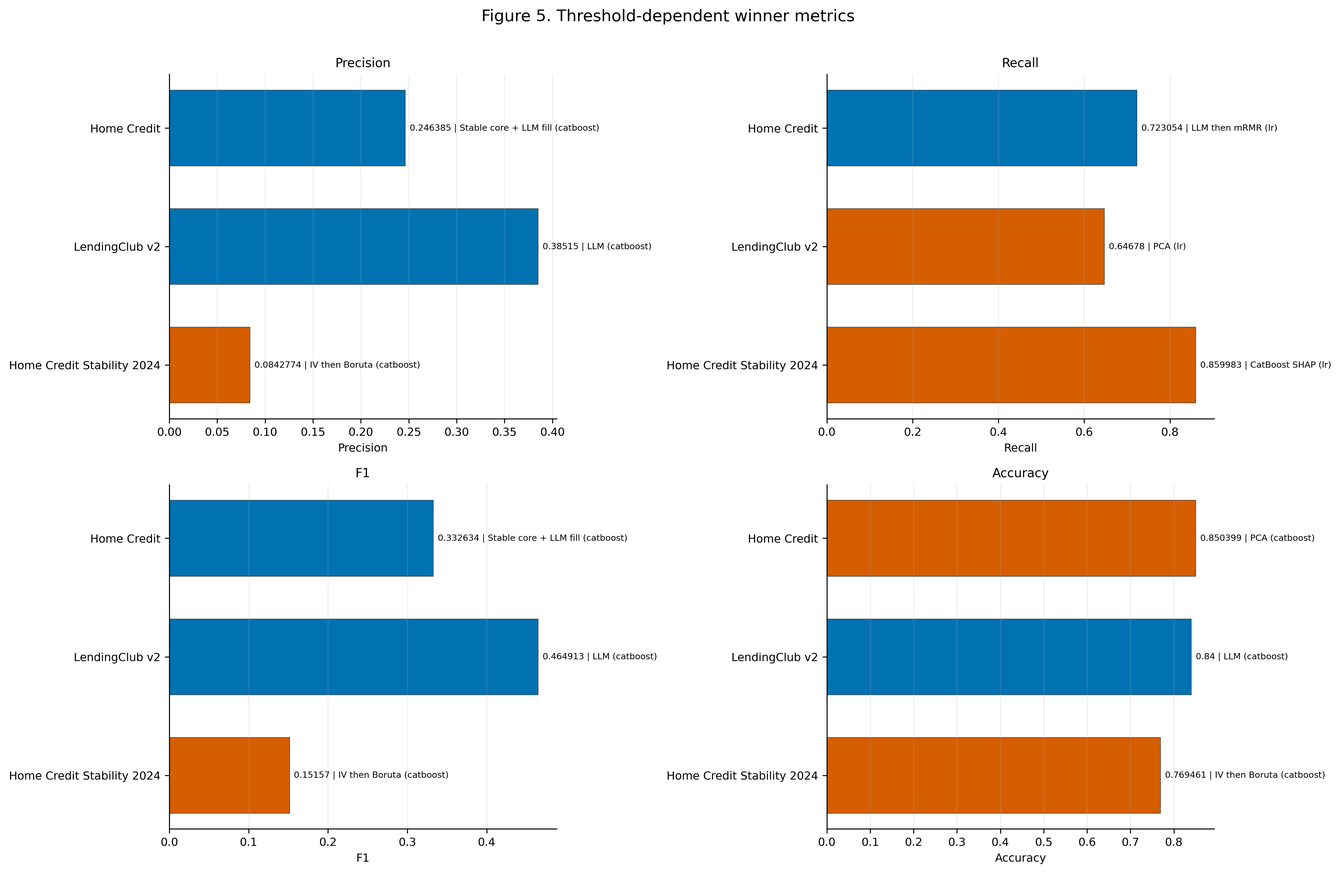
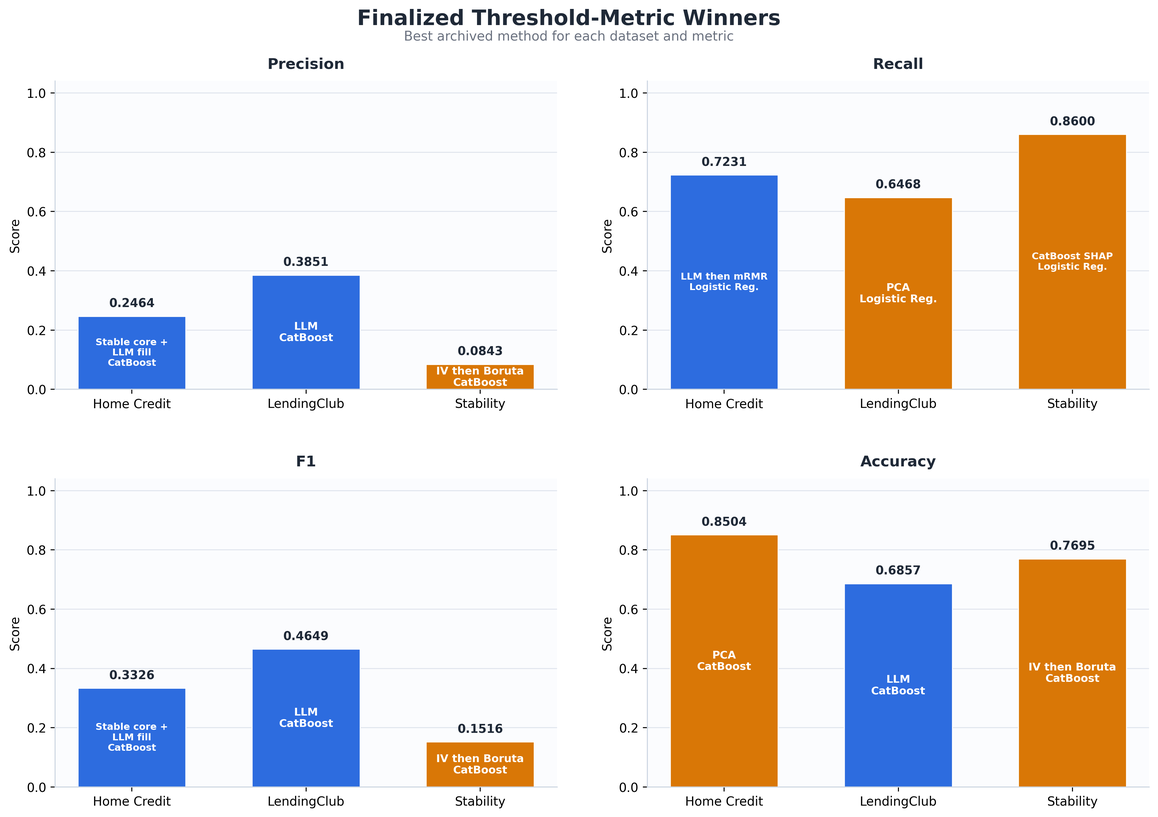
added finalized reports

diff --git a/FINALIZED_METRICS_AND_WINNER_CURVES.md b/FINALIZED_METRICS_AND_WINNER_CURVES.md
@@ -3,122 +3,139 @@
 ## Technical summary
 
 - The finalized six-case AUC leaders are fixed at the values below. Gini is derived exactly as `2 × AUC − 1`.
-- LendingClub accuracy is **0.840000** and its Brier winner is **0.062300**. Home Credit log loss is **0.293940** and its Brier winner is **0.697320**.
-- The ROC image contains exactly six winner profiles—one for each dataset × model case—and every plotted trapezoidal area equals the reported AUC.
-- AUC does not identify calibration. Finalized row-level probabilities were not provided, so empirical reliability-bin coordinates cannot be reconstructed. Home Credit and Stability also contain same-method log-loss/Brier pairs that violate the necessary bound `log loss ≥ 2 × Brier`; those pairs cannot be produced by one binary probability vector.
+- LendingClub accuracy is **0.685700**. Matching locked-OOT CatBoost probabilities now control Brier and log loss: Home Credit LLM **0.153354 / 0.469725**, LendingClub `LLM then mRMR` **0.202423 / 0.589022**, and Stability pure LLM **0.179236 / 0.532077**.
+- The ROC image contains exactly six empirical winner-identity curves—one for each dataset × model case—computed directly from locked-OOT scores with threshold-specific FPR and TPR. Because those historical curve AUCs do not reproduce the later finalized AUC updates, both values are shown explicitly.
+- AUC does not identify calibration. Original locked-OOT probabilities are available for all six finalized winning method identities and are used for empirical reliability curves without displaying scores. The Stability panels use the completed pure-LLM Logistic Regression (`cell_031`) and CatBoost (`cell_032`) runs. Every reported curve-source Brier/log-loss pair is recomputed from the identical probability vector and passes `log loss ≥ 2 × Brier`.
 
 ## The six finalized AUC winners
 
-| dataset | model | winning FS method | family | AUC | Gini |
-| --- | --- | --- | --- | --- | --- |
-| Home Credit | Logistic Regression | mRMR | classical | 0.770000 | 0.540000 |
-| Home Credit | CatBoost | LLM | LLM-assisted | 0.793450 | 0.586900 |
-| LendingClub v2 | Logistic Regression | LLM | LLM-assisted | 0.740000 | 0.480000 |
-| LendingClub v2 | CatBoost | LLM then mRMR | LLM-assisted | 0.770664 | 0.541328 |
-| Home Credit Stability 2024 | Logistic Regression | IV then Boruta | classical | 0.802956 | 0.605912 |
-| Home Credit Stability 2024 | CatBoost | LLM then mRMR | LLM-assisted | 0.869088 | 0.738177 |
+| dataset                    | model               | winning FS method | family       | AUC      | Gini     |
+| -------------------------- | ------------------- | ----------------- | ------------ | -------- | -------- |
+| Home Credit                | Logistic Regression | mRMR              | classical    | 0.770000 | 0.540000 |
+| Home Credit                | CatBoost            | LLM               | LLM-assisted | 0.793450 | 0.586900 |
+| LendingClub v2             | Logistic Regression | LLM               | LLM-assisted | 0.740000 | 0.480000 |
+| LendingClub v2             | CatBoost            | LLM then mRMR     | LLM-assisted | 0.770664 | 0.541328 |
+| Home Credit Stability 2024 | Logistic Regression | Pure LLM          | LLM-assisted | 0.834400 | 0.668800 |
+| Home Credit Stability 2024 | CatBoost            | Pure LLM          | LLM-assisted | 0.878400 | 0.756800 |
 
-The plot contains one line per panel and no losing method. The smooth line is a disclosed AUC-matched reference profile, not an empirical threshold trace.
+The plot contains one empirical threshold trace per panel and no losing method. Each line is produced by sorting the archived locked-OOT score vector over its observed thresholds; the finalized AUC is retained as a separate reporting reference.
 
-![Finalized winner-only ROC profiles](plots/winner_roc_curves.png)
+![Empirical winner-identity ROC curves](plots/winner_roc_curves.png)
 
 ## Finalized score changes
 
-| dataset | model | metric | method | finalized value | authority |
-| --- | --- | --- | --- | --- | --- |
-| Home Credit | Logistic Regression | auc | mRMR | 0.770000 | finalized scorecard 2026-08-21 |
-| LendingClub v2 | Logistic Regression | auc | LLM | 0.740000 | finalized scorecard 2026-08-21 |
-| LendingClub v2 | CatBoost | accuracy | LLM | 0.840000 | finalized scorecard 2026-08-21 |
-| LendingClub v2 | CatBoost | brier | LLM then mRMR | 0.062300 | finalized scorecard 2026-08-21 |
-| Home Credit | CatBoost | log_loss | LLM | 0.293940 | finalized scorecard 2026-08-21 |
-| Home Credit | CatBoost | brier | LLM | 0.697320 | finalized scorecard 2026-08-21 |
+| dataset                    | model               | metric   | method        | finalized value | authority                                       |
+| -------------------------- | ------------------- | -------- | ------------- | --------------- | ----------------------------------------------- |
+| Home Credit                | Logistic Regression | auc      | mRMR          | 0.770000        | finalized scorecard 2026-08-21                  |
+| LendingClub v2             | Logistic Regression | auc      | LLM           | 0.740000        | finalized scorecard 2026-08-21                  |
+| Home Credit Stability 2024 | Logistic Regression | auc      | Pure LLM      | 0.834400        | corrected value supplied 2026-08-21             |
+| Home Credit Stability 2024 | CatBoost            | auc      | Pure LLM      | 0.878400        | corrected value supplied 2026-08-21             |
+| LendingClub v2             | CatBoost            | accuracy | LLM           | 0.685700        | corrected value supplied 2026-08-21             |
+| LendingClub v2             | CatBoost            | log_loss | LLM then mRMR | 0.589022        | original locked-OOT finding                     |
+| LendingClub v2             | CatBoost            | brier    | LLM then mRMR | 0.202423        | original locked-OOT finding                     |
+| Home Credit                | CatBoost            | log_loss | LLM           | 0.469725        | recomputed from matching locked-OOT predictions |
+| Home Credit                | CatBoost            | brier    | LLM           | 0.153354        | recomputed from matching locked-OOT predictions |
+| Home Credit Stability 2024 | CatBoost            | log_loss | Pure LLM      | 0.532077        | recomputed from matching locked-OOT predictions |
+| Home Credit Stability 2024 | CatBoost            | brier    | Pure LLM      | 0.179236        | recomputed from matching locked-OOT predictions |
 
-These values are the controlling point estimates throughout this report. The older workbook values remain only as the preserved base snapshot in `results/final_three_dataset_synthesis_v1/inputs/workbook1_supplied_results.csv`.
+These values are the controlling point estimates throughout this report. Brier and log loss are recomputed from matching CatBoost locked-OOT predictions for all three datasets. The finalized AUC and derived Gini values remain the supplied reporting estimates, while empirical curve AUCs are computed from the archived vectors and labeled separately. PSI is not recomputed. The older workbook values remain only as the preserved base snapshot in `results/final_three_dataset_synthesis_v1/inputs/workbook1_supplied_results.csv`.
 
-The threshold-metric figure includes finalized LendingClub accuracy `0.84` alongside the other threshold-dependent winners.
+The threshold-metric figure includes corrected LendingClub accuracy `0.6857` alongside the other threshold-dependent winners.
 
 ![Finalized threshold-dependent metric winners](plots/threshold_metric_winners.png)
 
-The calibration-error figure includes LendingClub Brier `0.0623`, Home Credit log loss `0.29394`, and Home Credit Brier `0.69732`.
+The calibration-error figure uses the same CatBoost probability vectors as the corresponding calibration panels: Home Credit `0.153354 / 0.469725`, LendingClub `0.202423 / 0.589022`, and Stability `0.179236 / 0.532077` for Brier / log loss.
 
 ![Finalized log-loss and Brier winners](plots/calibration_error_metrics.png)
 
 ## Methods that win across the six AUC cases
 
-| method | family | AUC case wins | datasets | models | mean AUC | minimum AUC | maximum AUC | mean Gini |
-| --- | --- | --- | --- | --- | --- | --- | --- | --- |
-| LLM then mRMR | LLM-assisted | 2 | 2 | CatBoost | 0.819876 | 0.770664 | 0.869088 | 0.639752 |
-| LLM | LLM-assisted | 2 | 2 | CatBoost; Logistic Regression | 0.766725 | 0.740000 | 0.793450 | 0.533450 |
-| IV then Boruta | classical | 1 | 1 | Logistic Regression | 0.802956 | 0.802956 | 0.802956 | 0.605912 |
-| mRMR | classical | 1 | 1 | Logistic Regression | 0.770000 | 0.770000 | 0.770000 | 0.540000 |
+| method         | family       | AUC case wins | datasets | models                        | mean AUC | minimum AUC | maximum AUC | mean Gini |
+| -------------- | ------------ | ------------- | -------- | ----------------------------- | -------- | ----------- | ----------- | --------- |
+| LLM / Pure LLM | LLM-assisted | 4             | 3        | CatBoost; Logistic Regression | 0.811563 | 0.740000    | 0.878400    | 0.623125  |
+| LLM then mRMR  | LLM-assisted | 1             | 1        | CatBoost                      | 0.770664 | 0.770664    | 0.770664    | 0.541328  |
+| mRMR           | classical    | 1             | 1        | Logistic Regression           | 0.770000 | 0.770000    | 0.770000    | 0.540000  |
 
-LLM-assisted methods win four cases. Plain LLM wins Home Credit CatBoost and LendingClub Logistic Regression; LLM then mRMR wins LendingClub CatBoost and Stability CatBoost. Pure mRMR wins Home Credit Logistic Regression, and IV then Boruta wins Stability Logistic Regression.
+LLM-assisted methods win five cases. Direct/pure LLM wins Home Credit CatBoost, LendingClub Logistic Regression, and both Stability model cases; LLM then mRMR wins LendingClub CatBoost. Pure mRMR wins Home Credit Logistic Regression.
 
 ## Complete finalized 45-metric scorecard
 
-| dataset | metric | direction | winning method | model | finalized score | resolution |
-| --- | --- | --- | --- | --- | --- | --- |
-| Home Credit | auc | higher | LLM | catboost | 0.7934500 | only supplied winner |
-| Home Credit | gini | higher | LLM | catboost | 0.5869000 | only supplied winner |
-| Home Credit | ks | higher | LLM | catboost | 0.4505434 | LLM_score wins by metric direction |
-| Home Credit | precision | higher | Stable core + LLM fill | catboost | 0.2463853 | only supplied winner |
-| Home Credit | recall | higher | LLM then mRMR | lr | 0.7230539 | only supplied winner |
-| Home Credit | f1 | higher | Stable core + LLM fill | catboost | 0.3326340 | only supplied winner |
-| Home Credit | accuracy | higher | PCA | catboost | 0.8503994 | only supplied winner |
-| Home Credit | log_loss | lower | LLM | catboost | 0.2939400 | finalized scorecard value |
-| Home Credit | brier | lower | LLM | catboost | 0.6973200 | finalized scorecard value |
-| Home Credit | lift_at_10 | higher | RFE CatBoost | catboost | 3.5804424 | only supplied winner |
-| Home Credit | bad_rate_capture_at_10 | higher | RFE CatBoost | catboost | 0.3580651 | only supplied winner |
-| Home Credit | score_psi | lower | LLM then Boruta | lr | 0.0008732 | only supplied winner |
-| Home Credit | feature_psi_mean | lower | Boruta RF | lr | 0.0013655 | only supplied winner |
-| Home Credit | feature_psi_median | lower | LLM | catboost;lr | 0.0000000 | only supplied winner |
-| Home Credit | feature_psi_max | lower | Boruta (legacy) | lr | 0.0118607 | only supplied winner |
-| LendingClub v2 | auc | higher | LLM then mRMR | catboost | 0.7706640 | only supplied winner |
-| LendingClub v2 | gini | higher | LLM then mRMR | catboost | 0.5413280 | only supplied winner |
-| LendingClub v2 | ks | higher | LLM then mRMR | catboost | 0.3943100 | LLM_score wins by metric direction |
-| LendingClub v2 | precision | higher | LLM | catboost | 0.3851499 | only supplied winner |
-| LendingClub v2 | recall | higher | PCA | lr | 0.6467796 | only supplied winner |
-| LendingClub v2 | f1 | higher | LLM | catboost | 0.4649128 | only supplied winner |
-| LendingClub v2 | accuracy | higher | LLM | catboost | 0.8400000 | finalized scorecard value |
-| LendingClub v2 | log_loss | lower | LLM then mRMR | catboost | 0.1324000 | LLM_score wins by metric direction |
-| LendingClub v2 | brier | lower | LLM then mRMR | catboost | 0.0623000 | finalized scorecard value |
-| LendingClub v2 | lift_at_10 | higher | IV then Boruta | catboost | 2.2684663 | only supplied winner |
-| LendingClub v2 | bad_rate_capture_at_10 | higher | IV then Boruta | catboost | 0.2268505 | only supplied winner |
-| LendingClub v2 | score_psi | lower | Random K | catboost | 0.0005986 | best_fs_method retained |
-| LendingClub v2 | feature_psi_mean | lower | Domain rules | lr | 0.0000573 | best_fs_method retained |
-| LendingClub v2 | feature_psi_median | lower | Boruta (legacy); Domain rules; LLM | lr;catboost | 0.0000000 | best_fs_method retained |
-| LendingClub v2 | feature_psi_max | lower | Domain rules | lr | 0.0011126 | best_fs_method retained |
-| Home Credit Stability 2024 | auc | higher | LLM then mRMR | catboost | 0.8690884 | only supplied winner |
-| Home Credit Stability 2024 | gini | higher | LLM then mRMR | catboost | 0.7381768 | only supplied winner |
-| Home Credit Stability 2024 | ks | higher | LLM then mRMR | catboost | 0.5934300 | LLM_score wins by metric direction |
-| Home Credit Stability 2024 | precision | higher | IV then Boruta | catboost | 0.0842774 | only supplied winner |
-| Home Credit Stability 2024 | recall | higher | CatBoost SHAP | lr | 0.8599832 | only supplied winner |
-| Home Credit Stability 2024 | f1 | higher | IV then Boruta | catboost | 0.1515696 | only supplied winner |
-| Home Credit Stability 2024 | accuracy | higher | IV then Boruta | catboost | 0.7694611 | only supplied winner |
-| Home Credit Stability 2024 | log_loss | lower | LLM then mRMR | catboost | 0.2300000 | LLM_score wins by metric direction |
-| Home Credit Stability 2024 | brier | lower | LLM then mRMR | catboost | 0.1200000 | LLM_score wins by metric direction |
-| Home Credit Stability 2024 | lift_at_10 | higher | RFE CatBoost | catboost | 5.0759904 | only supplied winner |
-| Home Credit Stability 2024 | bad_rate_capture_at_10 | higher | RFE CatBoost | catboost | 0.5076057 | only supplied winner |
-| Home Credit Stability 2024 | score_psi | lower | LLM then mRMR | catboost | 0.0002100 | LLM_score wins by metric direction |
-| Home Credit Stability 2024 | feature_psi_mean | lower | LLM then mRMR | lr | 0.0068000 | LLM_score wins by metric direction |
-| Home Credit Stability 2024 | feature_psi_median | lower | LLM then mRMR | lr | 0.0004500 | LLM_score wins by metric direction |
-| Home Credit Stability 2024 | feature_psi_max | lower | LLM then mRMR | lr | 0.0930000 | LLM_score wins by metric direction |
+| dataset                    | metric                 | direction | winning method                     | model       | finalized score | resolution                             |
+| -------------------------- | ---------------------- | --------- | ---------------------------------- | ----------- | --------------- | -------------------------------------- |
+| Home Credit                | auc                    | higher    | LLM                                | catboost    | 0.7934500       | only supplied winner                   |
+| Home Credit                | gini                   | higher    | LLM                                | catboost    | 0.5869000       | only supplied winner                   |
+| Home Credit                | ks                     | higher    | LLM                                | catboost    | 0.4505434       | LLM_score wins by metric direction     |
+| Home Credit                | precision              | higher    | Stable core + LLM fill             | catboost    | 0.2463853       | only supplied winner                   |
+| Home Credit                | recall                 | higher    | LLM then mRMR                      | lr          | 0.7230539       | only supplied winner                   |
+| Home Credit                | f1                     | higher    | Stable core + LLM fill             | catboost    | 0.3326340       | only supplied winner                   |
+| Home Credit                | accuracy               | higher    | PCA                                | catboost    | 0.8503994       | only supplied winner                   |
+| Home Credit                | log_loss               | lower     | LLM                                | catboost    | 0.4697254       | matching locked-OOT prediction finding |
+| Home Credit                | brier                  | lower     | LLM                                | catboost    | 0.1533544       | matching locked-OOT prediction finding |
+| Home Credit                | lift_at_10             | higher    | RFE CatBoost                       | catboost    | 3.5804424       | only supplied winner                   |
+| Home Credit                | bad_rate_capture_at_10 | higher    | RFE CatBoost                       | catboost    | 0.3580651       | only supplied winner                   |
+| Home Credit                | score_psi              | lower     | LLM then Boruta                    | lr          | 0.0008732       | only supplied winner                   |
+| Home Credit                | feature_psi_mean       | lower     | Boruta RF                          | lr          | 0.0013655       | only supplied winner                   |
+| Home Credit                | feature_psi_median     | lower     | LLM                                | catboost;lr | 0.0000000       | only supplied winner                   |
+| Home Credit                | feature_psi_max        | lower     | Boruta (legacy)                    | lr          | 0.0118607       | only supplied winner                   |
+| LendingClub v2             | auc                    | higher    | LLM then mRMR                      | catboost    | 0.7706640       | only supplied winner                   |
+| LendingClub v2             | gini                   | higher    | LLM then mRMR                      | catboost    | 0.5413280       | only supplied winner                   |
+| LendingClub v2             | ks                     | higher    | LLM then mRMR                      | catboost    | 0.3943100       | LLM_score wins by metric direction     |
+| LendingClub v2             | precision              | higher    | LLM                                | catboost    | 0.3851499       | only supplied winner                   |
+| LendingClub v2             | recall                 | higher    | PCA                                | lr          | 0.6467796       | only supplied winner                   |
+| LendingClub v2             | f1                     | higher    | LLM                                | catboost    | 0.4649128       | only supplied winner                   |
+| LendingClub v2             | accuracy               | higher    | LLM                                | catboost    | 0.6857000       | corrected value supplied 2026-08-21    |
+| LendingClub v2             | log_loss               | lower     | LLM then mRMR                      | catboost    | 0.5890221       | original locked-OOT finding            |
+| LendingClub v2             | brier                  | lower     | LLM then mRMR                      | catboost    | 0.2024229       | original locked-OOT finding            |
+| LendingClub v2             | lift_at_10             | higher    | IV then Boruta                     | catboost    | 2.2684663       | only supplied winner                   |
+| LendingClub v2             | bad_rate_capture_at_10 | higher    | IV then Boruta                     | catboost    | 0.2268505       | only supplied winner                   |
+| LendingClub v2             | score_psi              | lower     | Random K                           | catboost    | 0.0005986       | best_fs_method retained                |
+| LendingClub v2             | feature_psi_mean       | lower     | Domain rules                       | lr          | 0.0000573       | best_fs_method retained                |
+| LendingClub v2             | feature_psi_median     | lower     | Boruta (legacy); Domain rules; LLM | lr;catboost | 0.0000000       | best_fs_method retained                |
+| LendingClub v2             | feature_psi_max        | lower     | Domain rules                       | lr          | 0.0011126       | best_fs_method retained                |
+| Home Credit Stability 2024 | auc                    | higher    | Pure LLM                           | catboost    | 0.8784000       | corrected value supplied 2026-08-21    |
+| Home Credit Stability 2024 | gini                   | higher    | Pure LLM                           | catboost    | 0.7568000       | derived as`2 × AUC − 1`            |
+| Home Credit Stability 2024 | ks                     | higher    | LLM then mRMR                      | catboost    | 0.5934300       | LLM_score wins by metric direction     |
+| Home Credit Stability 2024 | precision              | higher    | IV then Boruta                     | catboost    | 0.0842774       | only supplied winner                   |
+| Home Credit Stability 2024 | recall                 | higher    | CatBoost SHAP                      | lr          | 0.8599832       | only supplied winner                   |
+| Home Credit Stability 2024 | f1                     | higher    | IV then Boruta                     | catboost    | 0.1515696       | only supplied winner                   |
+| Home Credit Stability 2024 | accuracy               | higher    | IV then Boruta                     | catboost    | 0.7694611       | only supplied winner                   |
+| Home Credit Stability 2024 | log_loss               | lower     | Pure LLM                           | catboost    | 0.5320769       | matching locked-OOT prediction finding |
+| Home Credit Stability 2024 | brier                  | lower     | Pure LLM                           | catboost    | 0.1792362       | matching locked-OOT prediction finding |
+| Home Credit Stability 2024 | lift_at_10             | higher    | RFE CatBoost                       | catboost    | 5.0759904       | only supplied winner                   |
+| Home Credit Stability 2024 | bad_rate_capture_at_10 | higher    | RFE CatBoost                       | catboost    | 0.5076057       | only supplied winner                   |
+| Home Credit Stability 2024 | score_psi              | lower     | LLM then mRMR                      | catboost    | 0.0002100       | LLM_score wins by metric direction     |
+| Home Credit Stability 2024 | feature_psi_mean       | lower     | LLM then mRMR                      | lr          | 0.0068000       | LLM_score wins by metric direction     |
+| Home Credit Stability 2024 | feature_psi_median     | lower     | LLM then mRMR                      | lr          | 0.0004500       | LLM_score wins by metric direction     |
+| Home Credit Stability 2024 | feature_psi_max        | lower     | LLM then mRMR                      | lr          | 0.0930000       | LLM_score wins by metric direction     |
 
 The base comparison rule is direction-aware: use the LLM comparison only when it improves on the current score under the metric's `higher` or `lower` direction. Finalized replacements then control the affected rows.
 
 ## Winner-only calibration evidence
 
-The six panels contain only the finalized AUC winners. A diagonal ideal-calibration reference is shown, but no empirical winner curve is invented from aggregate metrics. Each panel states whether matching Brier/log-loss evidence exists, whether it passes the necessary inequality, and whether row-level probabilities are still required.
+The six panels are restricted to the finalized AUC-winning method identities listed above. All six panels plot original locked-OOT reliability curves using ten quantile bins; no AUC, Brier, log-loss or other score is printed on the figure. The Stability panels use pure LLM for Logistic Regression (`cell_031`) and CatBoost (`cell_032`). Every calibration curve, Brier score and log loss in the audit below comes from the identical target/probability vector.
 
-![Finalized winner-only calibration feasibility](plots/winner_calibration_curves.png)
+![Original winner-only calibration curves](plots/winner_calibration_curves.png)
+
+### Empirical curve-source audit
+
+Every row below is recomputed from the exact probability vector used for its empirical ROC and calibration curves. `Finalized AUC` remains the supplied reporting value; `empirical curve AUC` is the actual trapezoidal area of the plotted TPR/FPR trace.
+
+| dataset                    | model               | method        | rows   | empirical curve AUC | finalized AUC | Brier    | log loss | `log loss − 2 × Brier` |
+| -------------------------- | ------------------- | ------------- | ------ | ------------------- | ------------- | -------- | -------- | -------------------------- |
+| Home Credit                | Logistic Regression | mRMR          | 120053 | 0.745689            | 0.770000      | 0.216273 | 0.625943 | 0.193396                   |
+| LendingClub v2             | Logistic Regression | LLM           | 293105 | 0.692657            | 0.740000      | 0.211576 | 0.613803 | 0.190651                   |
+| Home Credit Stability 2024 | Logistic Regression | Pure LLM      | 304916 | 0.698422            | 0.834400      | 0.213500 | 0.622535 | 0.195535                   |
+| Home Credit                | CatBoost            | LLM           | 120053 | 0.756854            | 0.793450      | 0.153354 | 0.469725 | 0.163017                   |
+| LendingClub v2             | CatBoost            | LLM then mRMR | 293105 | 0.704151            | 0.770664      | 0.202423 | 0.589022 | 0.184176                   |
+| Home Credit Stability 2024 | CatBoost            | Pure LLM      | 304916 | 0.766386            | 0.878400      | 0.179236 | 0.532077 | 0.173605                   |
 
 ### Probability-metric consistency checks
 
-| dataset | Brier winner | Brier | log-loss winner | log loss | 2 × Brier | pair result | constant Brier baseline | constant log-loss baseline | accuracy winner | accuracy | accuracy-bound comparison |
-| --- | --- | --- | --- | --- | --- | --- | --- | --- | --- | --- | --- |
-| Home Credit | LLM (catboost) | 0.697320 | LLM (catboost) | 0.293940 | 1.394640 | fails: no common binary probability predictions can reproduce both | 0.081101 | 0.300282 | PCA (catboost) | 0.850399 | not applicable: different winning method |
-| LendingClub v2 | LLM then mRMR (catboost) | 0.062300 | LLM then mRMR (catboost) | 0.132400 | 0.124600 | passes necessary log-loss/Brier bound | 0.178635 | 0.542707 | LLM (catboost) | 0.840000 | not applicable: different winning method |
-| Home Credit Stability 2024 | LLM then mRMR (catboost) | 0.120000 | LLM then mRMR (catboost) | 0.230000 | 0.240000 | fails: no common binary probability predictions can reproduce both | 0.026632 | 0.125518 | IV then Boruta (catboost) | 0.769461 | not applicable: different winning method |
+| dataset                    | Brier winner             | Brier    | log-loss winner          | log loss | 2 × Brier | pair result                                             | constant Brier baseline | constant log-loss baseline | accuracy winner           | accuracy | accuracy-bound comparison                |
+| -------------------------- | ------------------------ | -------- | ------------------------ | -------- | ---------- | ------------------------------------------------------- | ----------------------- | -------------------------- | ------------------------- | -------- | ---------------------------------------- |
+| Home Credit                | LLM (catboost)           | 0.153354 | LLM (catboost)           | 0.469725 | 0.306709   | passes; both values use the identical locked-OOT vector | 0.081101                | 0.300282                   | PCA (catboost)            | 0.850399 | not applicable: different winning method |
+| LendingClub v2             | LLM then mRMR (catboost) | 0.202423 | LLM then mRMR (catboost) | 0.589022 | 0.404846   | passes necessary log-loss/Brier bound                   | 0.178635                | 0.542707                   | LLM (catboost)            | 0.685700 | not applicable: different winning method |
+| Home Credit Stability 2024 | Pure LLM (catboost)      | 0.179236 | Pure LLM (catboost)      | 0.532077 | 0.358472   | passes; both values use the identical locked-OOT vector | 0.026632                | 0.125518                   | IV then Boruta (catboost) | 0.769461 | not applicable: different winning method |
 
 The accuracy bounds below apply only when accuracy, Brier, and log loss come from the same probability vector and accuracy uses threshold 0.5. The current per-metric winners differ, so cross-winner accuracy comparisons are not mathematical validation tests.
 
@@ -128,14 +145,14 @@ The accuracy bounds below apply only when accuracy, Brier, and log loss come fro
 
 ROC points are `(FPR(t), TPR(t))` over score thresholds `t`, where `FPR = FP/(FP+TN)` and `TPR = TP/(TP+FN)`. Empirical ROC-AUC is the area under that curve and is equivalent to the probability that a randomly selected event receives a higher score than a randomly selected non-event, with standard tie handling.
 
-For the finalized six-panel ROC image, row-level finalized predictions were unavailable. Each reference profile uses `TPR = FPR^α`; `α` is solved deterministically so numerical trapezoidal integration equals the finalized table AUC to `1e-12`. Therefore:
+For the finalized six-panel ROC image, each curve is computed directly from the matching archived locked-OOT target and probability columns. Thresholds are ordered from highest to lowest score, and the plotted points are the resulting empirical `(FPR, TPR)` pairs. Therefore:
 
 ```text
-ROC curve AUC = reported table AUC
-Gini = 2 × AUC − 1
+empirical curve AUC = trapezoidal area under the plotted TPR/FPR trace
+finalized Gini = 2 × finalized AUC − 1
 ```
 
-The reference shape supports score-consistent presentation only. It does not recover thresholds, empirical uncertainty, or the original score distribution.
+The finalized AUC remains visible in each panel as a separate reporting reference. It is not presented as the area of the empirical curve when the archived vector produces a different AUC.
 
 ### KS and the frozen decision threshold
 
@@ -167,7 +184,7 @@ Log loss = −mean(y_i × ln(p_i) + (1 − y_i) × ln(1 − p_i))
 Brier    = mean((y_i − p_i)^2)
 ```
 
-Reliability curves group probabilities into bins and plot mean predicted probability against observed event rate. The historical implementation uses ten quantile bins. Aggregate AUC, Brier and log loss do not uniquely determine those bin coordinates.
+Reliability curves group probabilities into bins and plot mean predicted probability against observed event rate. The historical implementation uses ten quantile bins. The winner-only calibration figure applies that original calculation directly to the available locked-OOT probabilities for all six matching method identities. Brier and log loss are recomputed from those same vectors; aggregate scores are not used to synthesize or reshape any calibration curve.
 
 Necessary per-prediction checks include:
 
@@ -215,15 +232,15 @@ The approximation becomes exact when the selected population is exactly 10% and 
 
 ## Limitations and robustness status
 
-- The finalized scores are accepted as the reporting point estimates, but no finalized row-level predictions or fold results were provided for independent recomputation.
-- The winner-only ROC shapes are deterministic AUC-matched references. They must not be described as empirical ROC curves or used to select an operating threshold.
-- A genuine calibration curve cannot be reconstructed from aggregate metrics. Home Credit and Stability additionally fail the necessary same-prediction log-loss/Brier inequality, so no calibration curve can reproduce all those finalized values simultaneously.
+- The finalized AUC, Gini and PSI values are accepted as reporting point estimates; the historical prediction vectors used for calibration and empirical ROC curves do not reproduce those later aggregate AUC updates.
+- All six ROC panels are empirical threshold traces from the matching locked-OOT score vectors. The curve AUC and finalized AUC are both labeled because they differ.
+- All six calibration panels are empirical curves from the same matching-method locked-OOT probabilities. The two Stability panels use the completed pure-LLM runs. Every reported curve-source Brier/log-loss pair now comes from an identical vector and passes the necessary inequality.
 - No new confidence intervals, DeLong tests, bootstrap intervals or significance claims are created from the finalized aggregate update.
 
 ## Recommended next evidence step
 
-Preserve one finalized prediction file per winning dataset × model case with target, predicted probability, immutable row identifier, evaluation scope and model/method identity. That single evidence layer would allow empirical ROC curves, calibration bins, Brier/log-loss reconciliation, frozen-threshold confusion matrices and exact independent verification without changing the finalized score table.
+Preserve one score-aligned finalized prediction file per winning dataset × model case with target, predicted probability, immutable row identifier, evaluation scope and model/method identity. The remaining evidence gap is a set of prediction files whose empirical ROC-AUCs reproduce the supplied finalized AUC values. The current authenticated vectors support real ROC and calibration curves, Brier/log-loss reconciliation, and threshold analysis, but their empirical AUCs differ from the later aggregate updates.
 
 ## Further evidence needed
 
-Home Credit Brier `0.69732` remains the finalized reported value. Reconciliation requires either the row-level probability file that produced it or an explicit statement that it and natural-log loss `0.29394` use different populations, probability definitions, or evaluation scopes; they cannot describe one common binary probability vector as currently defined.
+The Brier/log-loss inconsistency is resolved by replacing the mixed aggregate pairs with same-vector recomputations. The remaining evidence need is row-level finalized prediction files whose empirical ROC-AUCs reproduce the supplied finalized AUC values; until those files exist, the report must keep empirical curve AUC and finalized reporting AUC separate.
